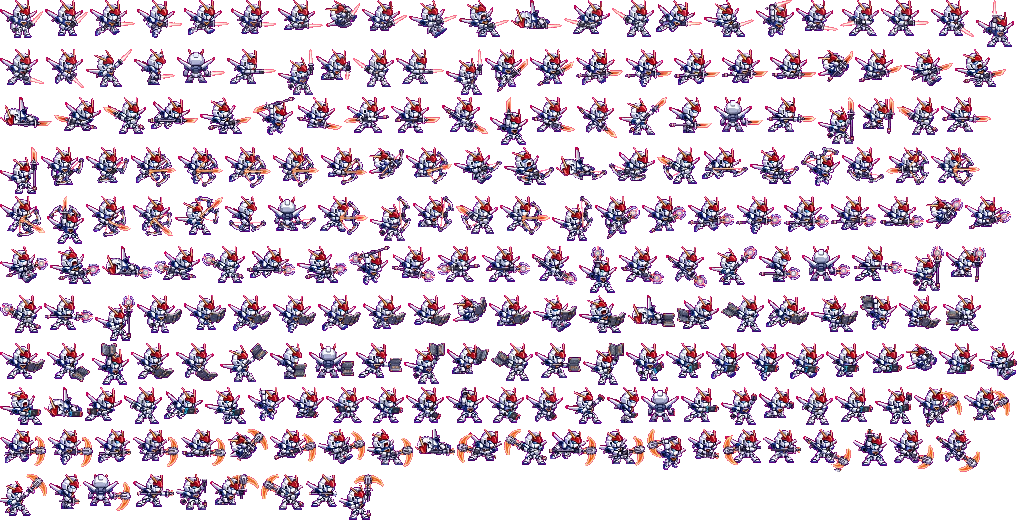
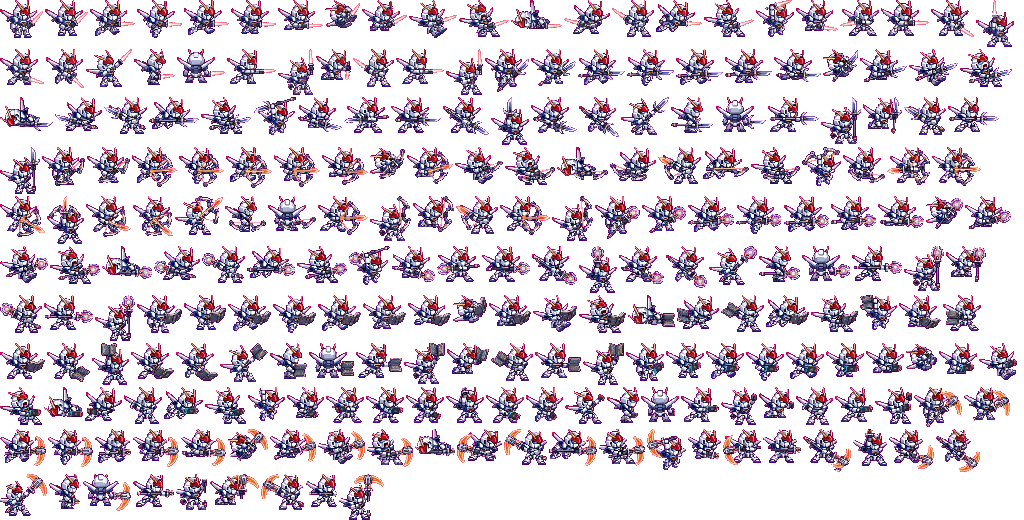
替换星铠机兵银蓝枪动作

Changed region(s): [[0.0, 0.0923, 1.0, 0.3692]]

diff --git a/docs/TODO.md b/docs/TODO.md
@@ -409,3 +409,4 @@
 - 接入白衣巫女七武器 231 帧，剑系使用用户最后确认的带刀鞘太刀表，枪系保留原第七张太刀作占位。角色沿用基础属性。
 - 231 帧通过非空与越界检查。Chrome 基础核对电脑及手机竖屏选人、镰刀实战、高塔、宫殿、校准页，无脚本错误。
 - 撤回上一轮枪系素材替换，重建剑系与对比图。上线前核对四位新增角色七系共 924 帧的映射、非空与边界，并用 Chrome 核对白衣巫女新版剑系及各入口。
+- 星铠机兵枪系换用银蓝枪原图，更新 33 帧和对比图；其余六系逐帧核对像素与锚点一致。
